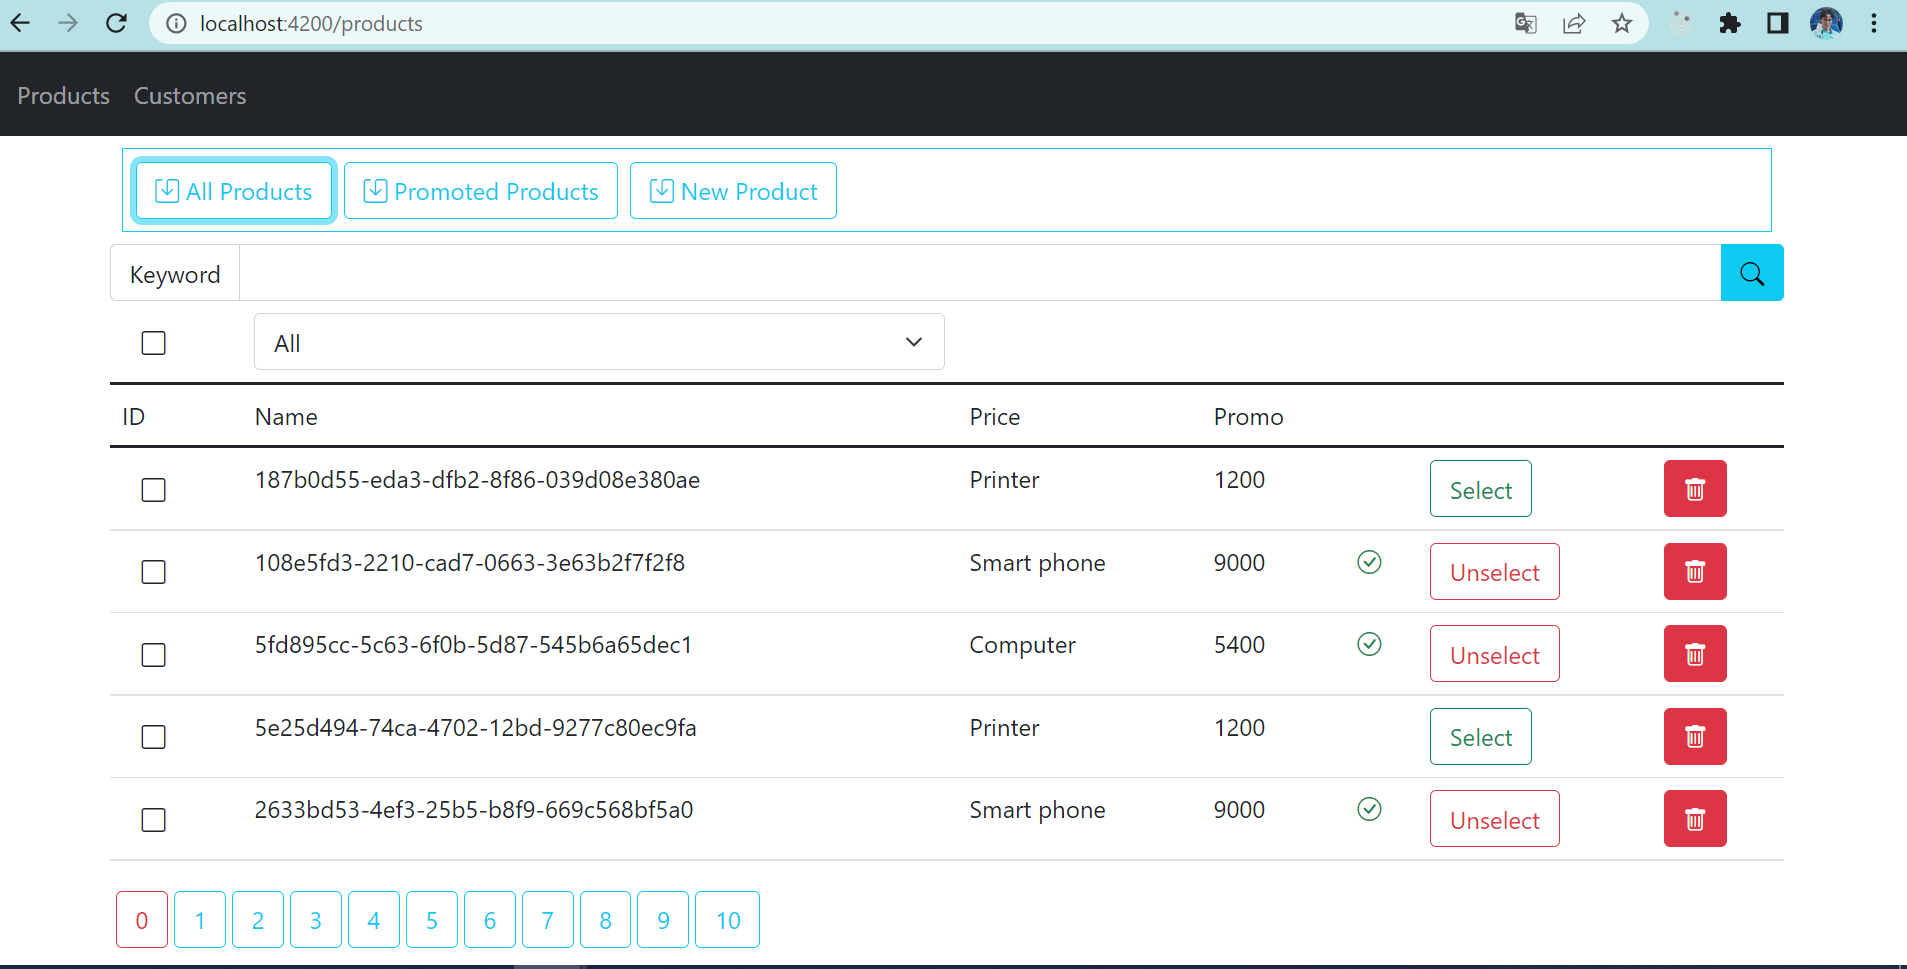
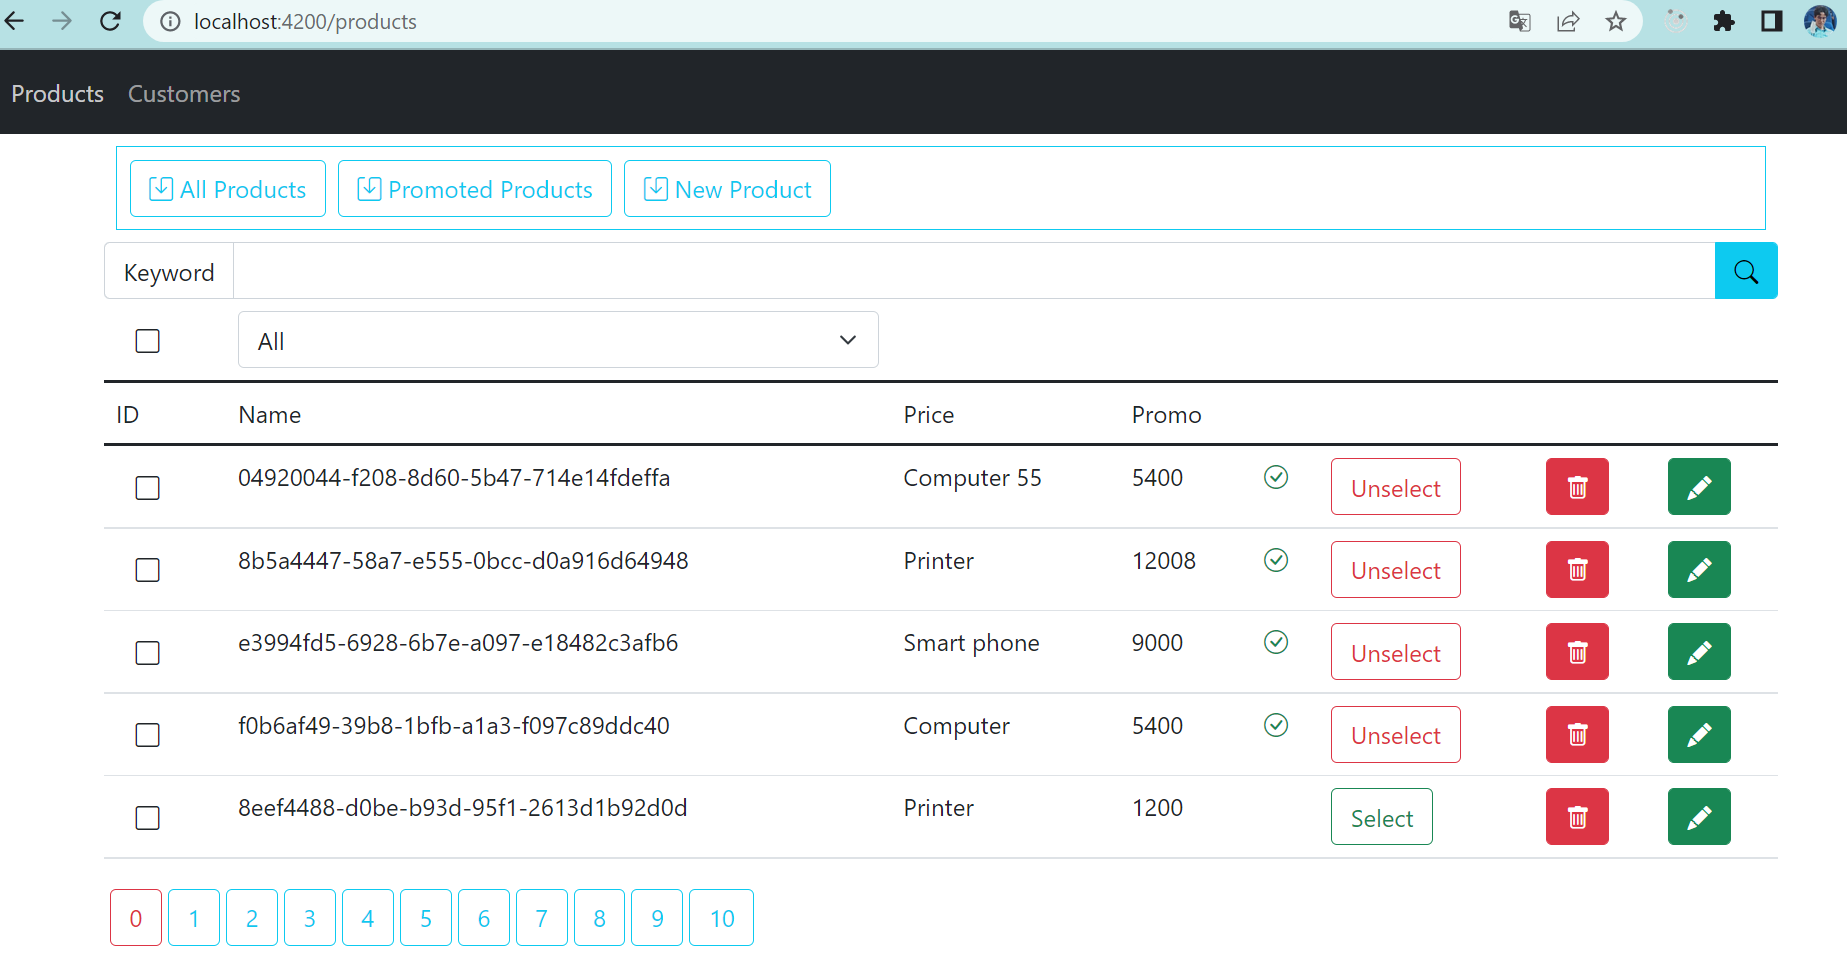
Screens 3

diff --git a/src/app/product-edit/product-edit.component.ts b/src/app/product-edit/product-edit.component.ts
@@ -1,0 +1,46 @@
+import { Component, OnInit } from '@angular/core';
+import {FormBuilder, FormGroup} from "@angular/forms";
+import {ProductService} from "../services/product.service";
+import {ActivatedRoute} from "@angular/router";
+
+@Component({
+  selector: 'app-product-edit',
+  templateUrl: './product-edit.component.html',
+  styleUrls: ['./product-edit.component.css']
+})
+export class ProductEditComponent implements OnInit {
+  productId! : string ;
+  editProductGroup! : FormGroup;
+  errorMessage! : string ;
+  constructor(private fb : FormBuilder, private prodService : ProductService, private route : ActivatedRoute) { }
+  ngOnInit(): void{
+    this.productId=this.route.snapshot.params['id'];
+    if(this.productId){
+      this.prodService.getProduct(this.productId).subscribe({
+        next :(data)=>{
+          this.editProductGroup=this.fb.group({
+            id : this.fb.control(data.id),
+            name : this.fb.control(data.name),
+            price : this.fb.control(data.price),
+            promotion : this.fb.control(data.promotion),
+          });
+        },
+       error : err => {
+          console.log(err);
+          this.errorMessage=err;
+       }
+      });
+    }
+
+  }
+
+  handleUpdateProduct() {
+    this.prodService.updateProduct(this.editProductGroup.value).subscribe({
+      next : (data)=>{
+        alert("Product has been successfully updated");
+      }, error : err => {
+        this.errorMessage=err;
+      }
+    })
+  }
+}

diff --git a/src/app/product-edit/product-edit.component.html b/src/app/product-edit/product-edit.component.html
@@ -1,0 +1,28 @@
+<div class="container mt-3">
+  <div class="card col-md-6 offset-3">
+    <div class="card-body text-danger" *ngIf="errorMessage" >{{errorMessage}}</div>
+    <div class="card-body" *ngIf="editProductGroup">
+    <form [formGroup]="editProductGroup" (ngSubmit)="handleUpdateProduct()">
+      <div class="mb-3">
+        <label class="form-label">Id :</label>
+        <input type="text" formControlName="id" class="form-control">
+      </div>
+      <div class="mb-3">
+        <label class="form-label">Name:</label>
+        <input type="text" formControlName="name" class="form-control">
+      </div>
+      <div class="mb-3">
+        <label class="form-label">Price :</label>
+        <input type="text" formControlName="price" class="form-control">
+      </div>
+      <div class="mb-3">
+        <label class="form-label">Id :</label>
+        <input type="checkbox" formControlName="promotion" class="form-check">
+      </div>
+      <div class="d-grid">
+        <button class="btn btn-success">Update</button>
+      </div>
+    </form>
+    </div>
+  </div>
+</div>

diff --git a/src/app/app-routing.module.ts b/src/app/app-routing.module.ts
@@ -3,11 +3,13 @@ import { RouterModule, Routes } from '@angular/router';
 import {ProductsComponent} from "./products/products.component";
 import {CustomersComponent} from "./customers/customers.component";
 import {NewProductComponent} from "./new-product/new-product.component";
+import {ProductEditComponent} from "./product-edit/product-edit.component";
 
 const routes: Routes = [
   {path : "products", component : ProductsComponent},
   {path : "customers" , component : CustomersComponent},
-  {path : "newProduct" , component : NewProductComponent}
+  {path : "newProduct" , component : NewProductComponent},
+  {path : "editProduct/:id" , component : ProductEditComponent}
 ];
 
 @NgModule({

diff --git a/src/app/product-edit/product-edit.component.spec.ts b/src/app/product-edit/product-edit.component.spec.ts
@@ -1,0 +1,25 @@
+import { ComponentFixture, TestBed } from '@angular/core/testing';
+
+import { ProductEditComponent } from './product-edit.component';
+
+describe('ProductEditComponent', () => {
+  let component: ProductEditComponent;
+  let fixture: ComponentFixture<ProductEditComponent>;
+
+  beforeEach(async () => {
+    await TestBed.configureTestingModule({
+      declarations: [ ProductEditComponent ]
+    })
+    .compileComponents();
+  });
+
+  beforeEach(() => {
+    fixture = TestBed.createComponent(ProductEditComponent);
+    component = fixture.componentInstance;
+    fixture.detectChanges();
+  });
+
+  it('should create', () => {
+    expect(component).toBeTruthy();
+  });
+});

diff --git a/src/app/app.module.ts b/src/app/app.module.ts
@@ -7,13 +7,15 @@ import { ProductsComponent } from './products/products.component';
 import { CustomersComponent } from './customers/customers.component';
 import { NewProductComponent } from './new-product/new-product.component';
 import {FormsModule, ReactiveFormsModule} from "@angular/forms";
+import { ProductEditComponent } from './product-edit/product-edit.component';
 
 @NgModule({
   declarations: [
     AppComponent,
     ProductsComponent,
     CustomersComponent,
-    NewProductComponent
+    NewProductComponent,
+    ProductEditComponent
   ],
   imports: [
     BrowserModule,

diff --git a/src/app/services/product.service.ts b/src/app/services/product.service.ts
@@ -87,4 +87,14 @@ export class ProductService {
     return of(true);
   }
 
+  public getProduct(id : string) : Observable<Product>{
+    let product = this.products.find(p=>p.id==id);
+    if(product )return of(product);
+    else return throwError(()=>new Error("Product not found"));
+  }
+  public updateProduct(product : Product) : Observable<Product>{
+    this.products=this.products.map(p=>(p.id==product.id)?product:p);
+    return of(product);
+  }
+
 }

diff --git a/src/app/new-product/new-product.component.html b/src/app/new-product/new-product.component.html
@@ -1,7 +1,7 @@
 <div class="container mt-2">
   <div class="card col-md-6 offset-3" >
     <div class="card-header">New Product</div>
-    <div class="card-body">
+    <div class="card-body" >
       <form [formGroup]="newProductFormGroup" (ngSubmit)="handleSaveProduct()">
         <div class="mb-3">
           <label class="form-label">Name :</label>

diff --git a/src/app/products/products.component.html b/src/app/products/products.component.html
@@ -65,6 +65,11 @@
             <i class="bi bi-trash"></i>
           </button>
         </td>
+        <td>
+          <button (click)="handleEditProduct(p)" class="btn btn-success">
+            <i class="bi bi-pencil-fill"></i>
+          </button>
+        </td>
       </tr>
       </tbody>
     </table>

diff --git a/src/app/products/products.component.ts b/src/app/products/products.component.ts
@@ -160,4 +160,8 @@ export class ProductsComponent implements OnInit {
     this.handleSearchProducts();
     this.currentPage=0;
   }
+
+  handleEditProduct(p: Product) {
+    this.router.navigateByUrl("/editProduct/"+p.id);
+  }
 }

diff --git a/README.md b/README.md
@@ -1,2 +1,3 @@
 <img src="screens/screen1.png">
 <img src="screens/screen2.png">
+<img src="screens/screen3.png">
